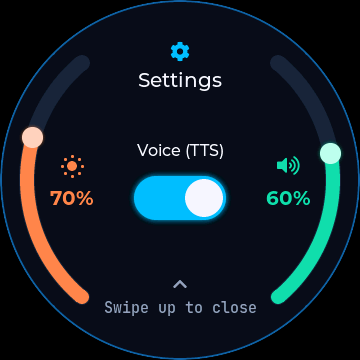
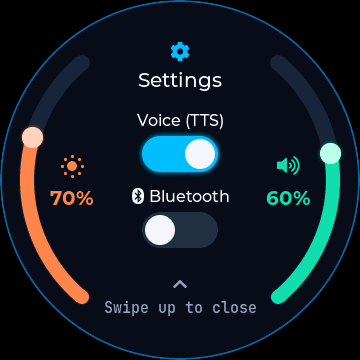
docs: describe opt-in Bluetooth, bridge status/start and battery screen-off

Changed region(s): [[0.3667, 0.3056, 0.6417, 0.7028]]

diff --git a/docs/architecture.md b/docs/architecture.md
@@ -22,11 +22,11 @@ Codex CLI local session JSONL ─── file watcher ┤
 
 Claude provides usage and estimated cost through its terminal statusline. Codex's local rollout watcher tracks usage, activity and completed tasks. Unknown measurements remain nullable; cached usage survives restarts. The clock is sent on device handshake and every ten minutes.
 
-The transport hub selects one responsive link, preferring USB. Both links use the same COBS/CRC framed JSON protocol. Switching links triggers a handshake and state resync. Audio PCM uses USB only. See [device protocol](device-protocol.md) for the wire contract.
+The transport hub selects one responsive link, preferring USB. Both links use the same COBS/CRC framed JSON protocol. Switching links triggers one handshake and state resync. A USB port that stays silent for 8 s is reopened; BLE only connects to a device advertising the Watchling name, with a 10 s connect timeout. Bluetooth is opt-in on the device. Audio PCM uses USB only. `npm run bridge:status` reads a snapshot over the IPC socket. See [device protocol](device-protocol.md) for the wire contract.
 
 ## Permissions
 
-A permission hook posts a request to the local broker. The bridge derives a short tool summary and risk label, queues requests and displays one active request. A touch response matching the active request resolves the hook with allow/deny. Timeout, hook cancellation or loss of connectivity releases the request without a device decision so the agent can use its normal prompt.
+A permission hook posts a request to the local broker. The bridge derives a short tool summary and risk label, queues requests and displays one active request. A touch response matching the active request resolves the hook with allow/deny. Timeout, hook cancellation or loss of connectivity for more than 10 s releases the request without a device decision so the agent can use its normal prompt.
 
 This is a local convenience interface for reviewing agent permissions. Risk classification is a regex/tool-name heuristic. The protocol defines voice/tap decision restrictions; those fields do not imply that voice recognition or tap recognition is a supported input feature.
 
@@ -34,7 +34,7 @@ This is a local convenience interface for reviewing agent permissions. Risk clas
 
 `echoear-firmware/main/` contains startup, framed transport handling, USB/BLE, audio, dashboard and animated robot face. The ESP-VoCat BSP supplies board-specific display, touch and codec setup. Firmware uses LVGL 9.6 and ESP-IDF 5.5 defaults for the ESP32-S3 target.
 
-Touch drives permission buttons and the pull-down settings screen. Brightness, volume and Voice are stored in NVS. Without recent activity the dashboard transitions into face mode and then dozing; incoming usage/clock updates do not count as interactions. Built-in chimes remain available independently of USB speech.
+Touch drives permission buttons and the pull-down settings screen. Brightness, volume, Voice and Bluetooth are stored in NVS. On battery with no USB power and no link for ten minutes the backlight turns off and advertising slows. Without recent activity the dashboard transitions into face mode and then dozing; incoming usage/clock updates do not count as interactions. Built-in chimes remain available independently of USB speech.
 
 ## Audio
 

diff --git a/docs/hardware.md b/docs/hardware.md
@@ -23,15 +23,17 @@ On macOS, the bridge auto-selects the first device with Espressif vendor ID `303
 
 ## Bluetooth LE
 
-The device advertises as **Watchling** using Nordic UART Service. Enable Bluetooth on the Mac and allow Bluetooth access when macOS requests it. The bridge scans automatically unless `WATCHLING_BLE=off`.
+Bluetooth is **off by default**. Switch it on under Settings → Bluetooth; the device then advertises as **Watchling** using Nordic UART Service. Enable Bluetooth on the Mac and allow Bluetooth access when macOS requests it. The bridge scans automatically unless `WATCHLING_BLE=off`, and connects only to a device advertising the Watchling name. Switching Bluetooth off drops the connection and stops advertising; the pairing is kept, so switching it on again reconnects without a new code.
 
 On first connection, the screen shows a six-digit passkey. Enter it when macOS requests pairing. Firmware requires an encrypted authenticated connection and stores bonds in NVS. Subsequent connections reuse the bond. A flash erase can remove pairing state; re-pair if host and device state no longer agree.
 
-USB is preferred while responsive; BLE carries usage, events and permission decisions when USB is unavailable. Chimes still work over BLE. Raw speech audio is **USB-only**. Wi-Fi is not implemented.
+USB is preferred while responsive. With Bluetooth on, BLE stays connected as a standby while the cable is in, so unplugging switches over without dropping a permission request on screen. If every link drops, waiting requests stay on the device for 10 seconds before returning to the terminal. BLE carries usage, events and permission decisions; chimes still work over BLE. Raw speech audio is **USB-only**. Wi-Fi is not implemented.
 
 ## Touch and sound
 
-Pull down from the top edge and continue roughly halfway across the display to open Settings; an incomplete pull springs back. Adjust brightness and volume with the arcs. Releasing volume plays a sample chime. Voice controls spoken announcements and chatter, leaving chimes enabled. NVS stores these settings.
+Pull down from the top edge and continue roughly halfway across the display to open Settings; an incomplete pull springs back. Adjust brightness and volume with the arcs. Releasing volume plays a sample chime. Voice controls spoken announcements and chatter, leaving chimes enabled. Bluetooth turns the BLE link on or off. NVS stores these settings.
+
+While it runs on its battery (fuel gauge present and reporting discharge, no USB host attached) with no bridge link for ten minutes, the backlight turns off and Bluetooth advertises about once a second. A touch wakes the screen without pressing anything underneath; moving the device or the bridge reconnecting also wakes it. On a computer's USB port, or on a charger, it never turns off; a power bank counts as a charger once the battery is full.
 
 Swipe up, tap the closing hint or wait 15 seconds to close Settings. Permission decisions use the on-screen buttons; protocol fields for other decision sources do not imply an implemented voice-recognition feature.
 

diff --git a/README.md b/README.md
@@ -10,7 +10,7 @@ A tiny desk companion for **Claude Code and Codex CLI**, built for the **ESP-VoC
 
 - Shows Claude and Codex usage arcs, Claude's estimated daily cost, clock and connection status.
 - Displays permission requests with touch **Approve / Deny** and falls back to the terminal if the device is unavailable or the request times out.
-- Connects over USB or paired Bluetooth LE, preferring USB when available.
+- Connects over USB, or over paired Bluetooth LE once you switch Bluetooth on in Settings; USB is preferred when both are up.
 - Plays notification chimes and USB-only spoken announcements.
 - Blinks, looks around, reacts to work, and plays prerecorded English chatter during quiet periods.
 - Offers brightness, volume and Voice controls in a pull-down Settings screen.
@@ -90,15 +90,17 @@ The extracted bundle runs the local installer described in [offline firmware ins
 
 A task completion triggers a chime and a short announcement. A permission request appears on the touchscreen while the terminal waits. Review the command or file summary before tapping a decision; use the terminal for questions that need a written answer. Unanswered requests return to the terminal after 120 seconds by default.
 
-Pull down from the top of the display to open Settings. Brightness and volume use the two arcs; Voice mutes speech and chatter while leaving chimes enabled. Values persist on the device. After 30 seconds without interaction the face fills the display; after five quiet minutes it dozes. A tap or agent event brings the dashboard back.
+Pull down from the top of the display to open Settings. Brightness and volume use the two arcs; Voice mutes speech and chatter while leaving chimes enabled; Bluetooth (off by default) lets the device work without the cable. Values persist on the device. After 30 seconds without interaction the face fills the display; after five quiet minutes it dozes. A tap or agent event brings the dashboard back. On battery, with no cable and no bridge for ten minutes, the screen turns off; a touch, picking it up, or the bridge reconnecting turns it back on.
 
-To free USB for flashing, stop the bridge from `pc-bridge/`:
+Manage the bridge from `pc-bridge/`:
 
 ```sh
-npm run bridge:stop
+npm run bridge:status   # running? which link, device Bluetooth switch, waiting requests
+npm run bridge:stop     # frees USB for flashing
+npm run bridge:start    # starts it again without opening an agent session
 ```
 
-Exit any serial monitor as well. The next agent session can start the bridge again.
+Exit any serial monitor before flashing. The next agent session also starts the bridge again.
 
 ## Documentation
 

diff --git a/docs/configuration.md b/docs/configuration.md
@@ -1,13 +1,13 @@
 # Configuration and local data
 
-The bridge reads environment variables at startup. Settings on the device control brightness, volume and Voice separately and persist in NVS.
+The bridge reads environment variables at startup. Settings on the device control brightness, volume, Voice and Bluetooth separately and persist in NVS. Bluetooth is off until switched on on the device.
 
 ## Runtime variables
 
 | Variable | Default | Behavior |
 | --- | --- | --- |
 | `WATCHLING_PORT` | Auto-detect | Exact USB serial path; useful with multiple Espressif devices |
-| `WATCHLING_BLE` | Enabled | Set exactly `off` to disable Bluetooth scanning |
+| `WATCHLING_BLE` | Enabled | Set exactly `off` to disable Bluetooth scanning on the Mac (the device's own switch controls advertising) |
 | `WATCHLING_CONFIRM_TIMEOUT_S` | `120` | Seconds before an unanswered device permission request returns to the terminal |
 | `WATCHLING_TTS` | `say` on macOS | `say` or `off`; off also disables chatter, leaving device chimes |
 | `WATCHLING_TTS_VOICE` | System voice | macOS `say` voice for task and permission announcements; does not change prerecorded chatter |
@@ -40,9 +40,10 @@ The launch agent does not inherit your interactive shell configuration. Set vari
 launchctl setenv WATCHLING_BLE off
 cd pc-bridge
 npm run bridge:stop
+npm run bridge:start
 ```
 
-Start a new agent session to restart it. `launchctl setenv` affects subsequently launched processes in that user session; it is not a persistent configuration file across logins. Remove an override with `launchctl unsetenv WATCHLING_BLE`, then restart again. Reinstall hooks after moving the repository or switching the Node executable.
+`bridge:start` (or a new agent session) restarts it. `launchctl setenv` affects subsequently launched processes in that user session; it is not a persistent configuration file across logins. Remove an override with `launchctl unsetenv WATCHLING_BLE`, then restart again. Reinstall hooks after moving the repository or switching the Node executable.
 
 ## Local files
 

diff --git a/docs/troubleshooting.md b/docs/troubleshooting.md
@@ -5,6 +5,8 @@ Start with a foreground USB connection from `pc-bridge/`: `WATCHLING_BLE=off npm
 | Symptom | Check or recovery |
 | --- | --- |
 | No USB port | Use a data cable, reconnect while holding BOOT, then run `npm run list-ports` |
+| Which link is in use? | `npm run bridge:status` shows the active link, both links' state, the device's Bluetooth switch and waiting requests |
+| Log shows `… silent; reopening` | The port stayed open while the device did not answer (for example after re-enumeration); the bridge closes it and finds the device again |
 | Flash fails because port is busy | Stop bridge; exit `idf.py monitor` with Ctrl-]; close other serial tools |
 | Wrong board selected | Set `WATCHLING_PORT` to the exact listed `/dev/cu.…` path |
 | `idf.py` is missing | Source `scripts/idf-env.sh` from the root; set `IDF_PATH` for a nondefault installation |
@@ -25,7 +27,7 @@ Start with a foreground USB connection from `pc-bridge/`: `WATCHLING_BLE=off npm
 
 ## Bluetooth
 
-Bluetooth must be enabled and macOS must allow access. Check that `WATCHLING_BLE=off` is not set in the process environment. The device advertises as Watchling and displays a six-digit pairing code; enter that code on the Mac when requested.
+First check that Bluetooth is switched on in the device's Settings (it is off by default) and run `npm run bridge:status` in `pc-bridge/`. Bluetooth must be enabled on the Mac and macOS must allow access. Check that `WATCHLING_BLE=off` is not set in the process environment. Log lines `BLE ignoring …: not Watchling` are other Bluetooth devices nearby and are expected. The device advertises as Watchling and displays a six-digit pairing code; enter that code on the Mac when requested.
 
 If pairing repeatedly fails after erasing firmware/NVS, remove the stale pairing on the Mac and pair again. First confirm that the same firmware works over USB. Native Bluetooth permissions can depend on how the bridge was started; the installed integration uses launchd to start it outside the coding agent's process tree.
 

diff --git a/CHANGELOG.md b/CHANGELOG.md
@@ -15,6 +15,13 @@ Changes below are unreleased; no public release is implied.
 
 ### Changed
 
+- **Bluetooth is now off by default.** Switch it on under Settings → Bluetooth; existing pairings
+  are kept. The device reports the switch to the bridge (`ble` in `hello`/`settings`).
+- On battery with no cable and no bridge for ten minutes, the screen turns off; touch or motion wakes it.
+- `npm run bridge:status` and `npm run bridge:start` join `bridge:stop`.
+- Permission requests survive a link drop of up to 10 s; unplugging with BLE on keeps them on screen.
+- The bridge reopens a USB port the device stopped answering on, connects only to a device named
+  Watchling over BLE, and times out stalled BLE connects instead of waiting forever.
 - ESP-IDF helper uses the configured SDK location (`IDF_PATH`) and pins a uv-managed Python
   (default 3.12, override with `WATCHLING_IDF_PYTHON`) instead of a machine-specific setup.
 - Claude Code and Codex share the bridge launch agent until the last integration is uninstalled.
